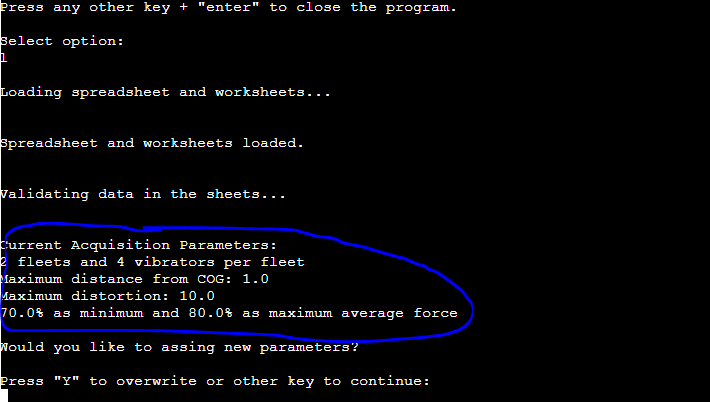
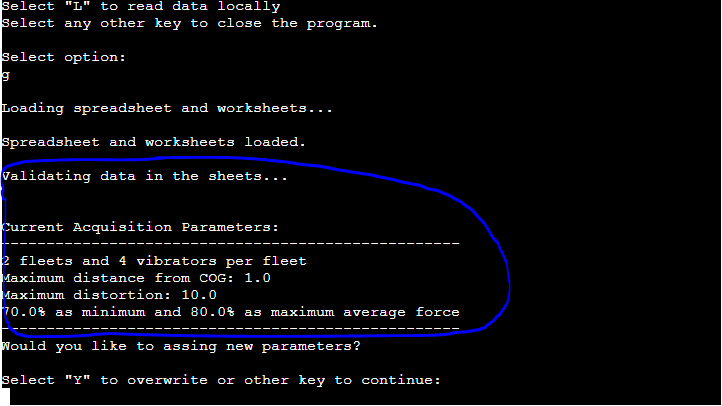
Update some evidence images with last version of messages of the program

diff --git a/README.md b/README.md
@@ -701,7 +701,7 @@ The following are testing of User Stories previously described above:
     <summary>Screenshot</summary>
 
 ![Missing or Wrong File Name Warning in Google Drive Image](docs/features-and-evidence/warning-message-with-missing-or-wrong-file-Google-Drive.PNG) 
-![Missing or Wrong File Name Warning in Locally Image](docs/features-and-evidence/warning-message-with-missing-or-wrong-file-Google-Drive.PNG) 
+![Missing or Wrong File Name Warning in Locally Image](docs/features-and-evidence/warning-message-with-missing-or-wrong-file-locally.PNG) 
 </details>
 <br><br>
 
